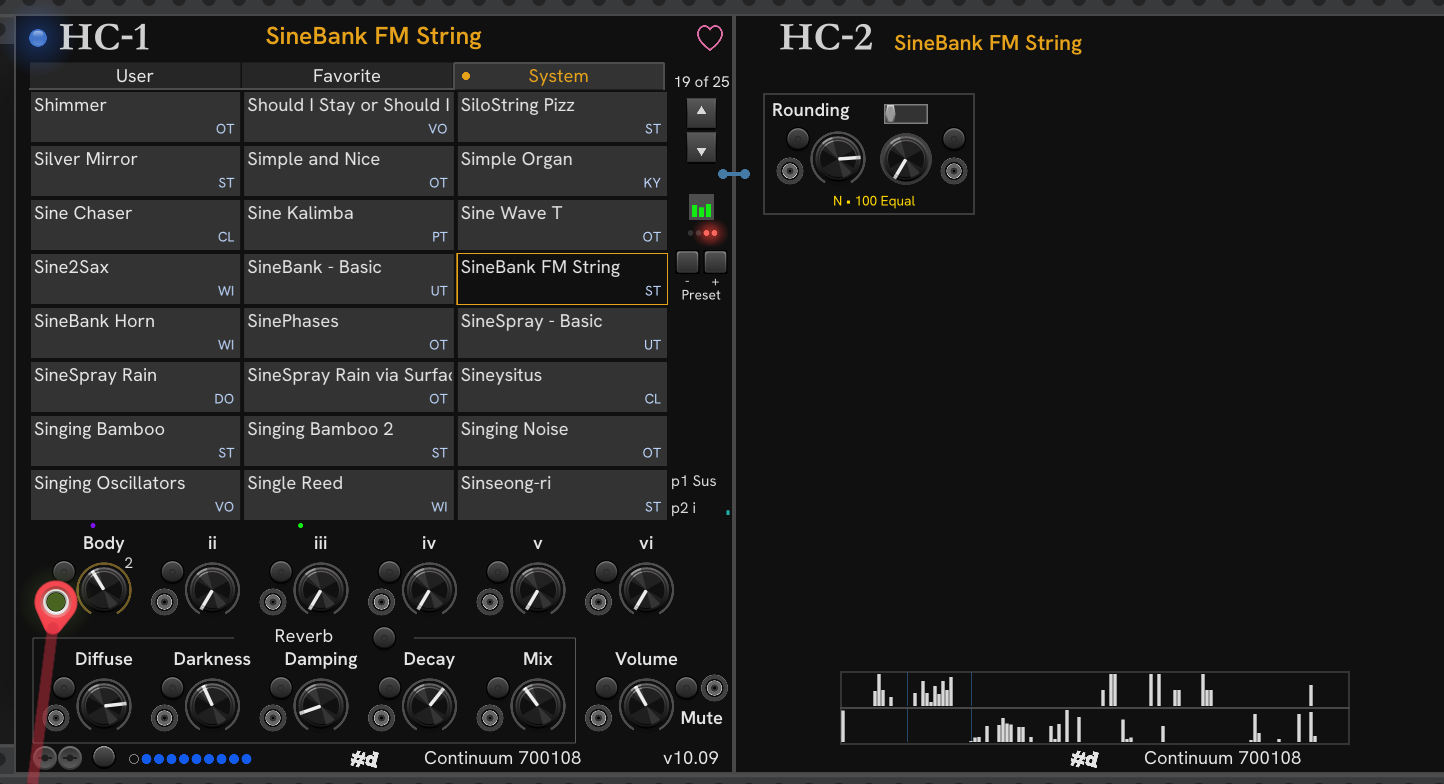
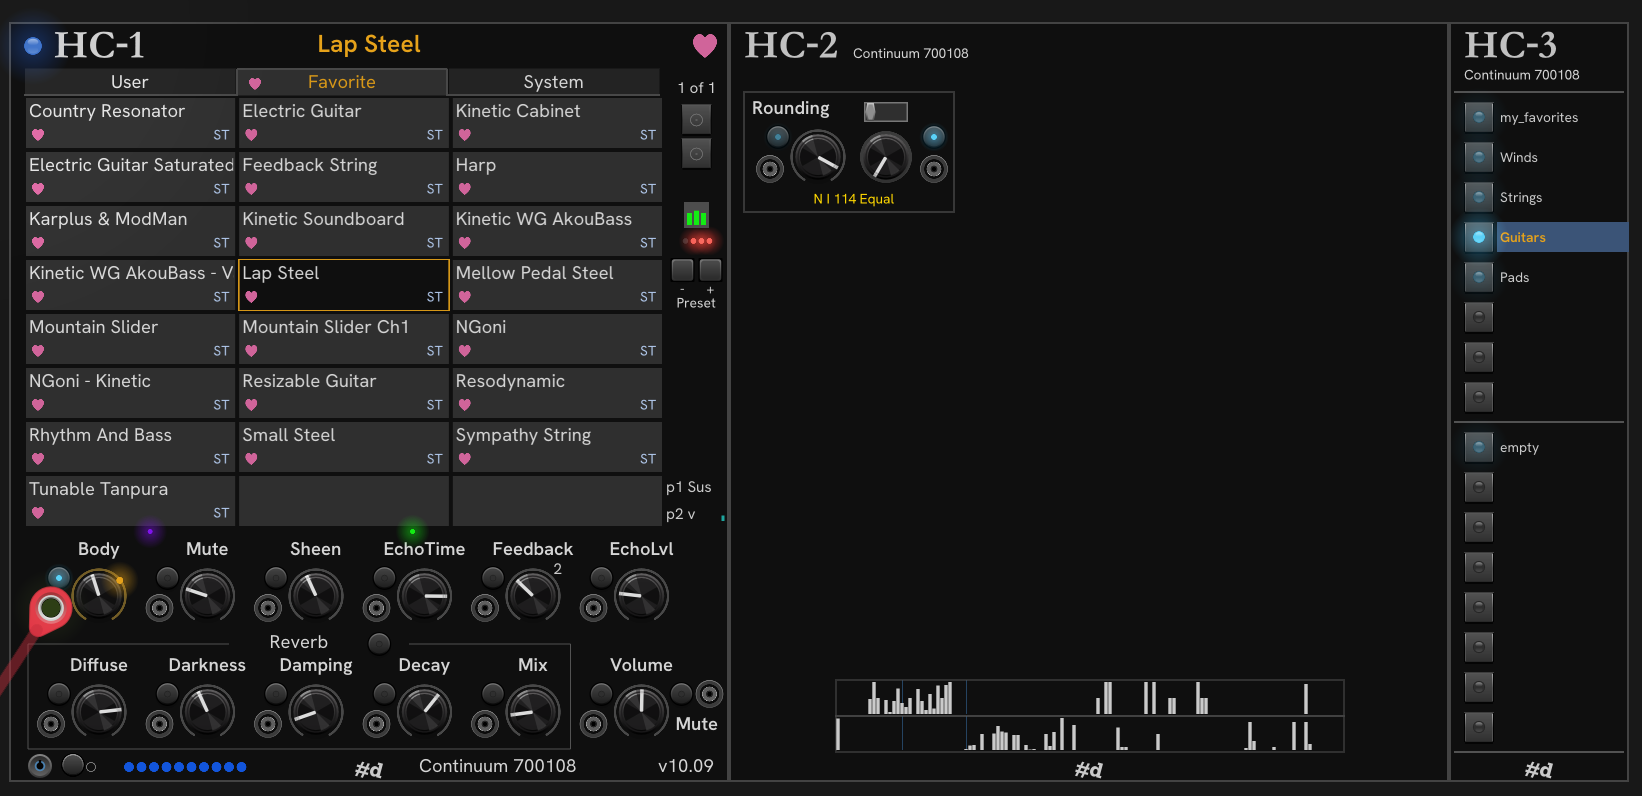
Doc updates

diff --git a/doc/HC-1.md b/doc/HC-1.md
@@ -1,5 +1,8 @@
 # HC-1
 
+HC-1 is the core module for the pachde (#d) HC One plugin.
+All other modules in the plugin are companions for HC-1, and don't do anything without HC-1 in the patch.
+
 HC-1 supports the Haken Continuum and other Haken Audio Eagan Matrix-based devices like the Eagan Matrix Eurorack module (EMM) and the Osmose from Expressive E.
 It is focused on having quick and easy access to presets on the device, favorites, plus CV control of the most essential performance settings, on a compact panel.
 
@@ -13,13 +16,18 @@ HC-1 was designed for Eagan Matrix firmware version 10.09.
 Earlier or later firmware versions may require changes to HC-1.
 If you have an issue, please open one in the Github Issues or send me an email.
 
-Here is the HC-1 module with it's expander HC-2.
+Here is the HC-1 module with it's companions HC-2, and [HC-3](HC-3.md).
 
-![The HC-1 mdoule](HC-1.png)
+![The HC One modules](HC-1.png)
 
-When first loaded, there is a long initialization time to read all user and system presets from the device. By default, the system and user presets are cached, so the next time you open the patch or the module, it should be up and running much faster.
+While they're shown side-by-side as typical for Rack modules with expanders,
+the HC One modules automatically find each other without having to sit next to each other.
 
-You can watch the prograss of the multi-step initialization process with the row of dots on the bottom. When everything is connected and working as expected, all the dots will be blue.
+When first loaded, there is a long initialization time to read all user and system presets from the device.
+By default, the presets are cached, so the next time you open the patch, it should be up and running much faster.
+
+You can watch the prograss of the multi-step initialization process with the row of dots on the bottom.
+When everything is connected and working as expected, all the dots are blue, and you can begin playing.
 
 > **Trouble-shooting:** Eagan Matrix devices require a high-quality MIDI connection.
 The HC-1 initialization process can sometimes fail, especially when you have a poor MIDI connection.
@@ -30,7 +38,7 @@ Be sure to use the MIDI cable that came with your device or another high-quality
 
 ## A tour of the user interface
 
-There's a lot of UI packed into this module, so let's take a tour.
+There's a lot packed into HC-1, so let's take a tour.
 
 From right to left, top to bottom:
 
@@ -209,11 +217,11 @@ You can, of course, save favorites anywhere you like, but this is the default, p
 - **Preset `.mid`:** At this time, this plugin has no support for managing preset .mid files.
 I do have plans to build such functionality, but it may not be in the Rack plugin format.
 
-- **Multiple EM Devices:** The USB plug on my ContinuuMini is broken, so I haven't been able to test the multiple-EM device scenario.
-That's where *you* come in!
-If you own multiple EM-based devices, you should be able to use an instance of HC-1 for each device in the same Rack patch to control multiple devices.
-The automatic discovery will always choose the first EM device it finds, but you can choose another from the MIDI controls in the bottom left:
-Pick the _output_ device from the right-hand MIDI selector and HC-1 will automatically find the corresponding input.
+- **Multiple EM Devices:** My ContinuuMini is back at Haken Audio for repairs, so I haven't been able to test the multiple-EM device scenario.
+
+  If you own multiple EM-based devices, you should be able to use an instance of HC-1 for each device in the same Rack patch to control multiple devices.
+Currently, the automatic discovery will always choose the first one it finds, and you'll get a big red error display if you have more than one HC-1 on the same device.
+You can choose another device from the EM Device button in the bottom left. From there, things should remain sorted out.
 
 - **Factory presets:** For beta, there are no Rack module factory presets.
 Please let me know if you have something useful that comes from using Rack module presets.

diff --git a/doc/index.md b/doc/index.md
@@ -1,18 +1,25 @@
 # pachde HC-One
 
-Plugin for Haken Audio's Eagan Matrix.
-The Eagan Matrix is the synth engien for a variety of hardware devices.
+Performance-oriented plugin for Haken Audio's Eagan Matrix.
+The Eagan Matrix is the synth engine for a variety of hardware devices.
 This includes the Haken Continuum, Continuu Mini, Eagan Matrix Module, and the Osmose from Expressive E.
 
 It is *not* intended to be a replacement for the Haken Editor.
 The intention is to build out a performance companion for the device.
-Use the Haken editor to edit presets.
+
+![HC One modules](HC-1.png)
+
+HC-1 is the main module.
+The rest are companion modules to HC-1, and require an HC-1 in the patch to do anything.
+HC One modules automatically find each other, so you are free to arrange them wherever in the rack you like.
+They do not have to be side-by-side like Rack expander modules.
 
 Modules:
 
 - **[HC-1](HC-1.md)** Fast access to favorite presets, with knobs and CV inputs for the essential controls: Macros and the Recirculator.
 
-- **HC2** For beta, pachde's prototyping and debugging module.
-  Later this will be replaced by an additional module (or more) with additional features for the Eagan Matrix.
+- **HC2** Rounding and CC map (more to come).
+
+- **[HC-3](HC-3.md)** Manage a set of Favorites files.
 
 ![pachde (#d) logo](Logo.svg)

diff --git a/doc/HC-3.md b/doc/HC-3.md
@@ -1,0 +1,21 @@
+# HC-3
+
+HC-3 is a companion for HC-1, offering easy access for up to 16 HC-1 favorites files.
+If you want access to more than 16, just add another instance of HC-3.
+
+![HC-3 module](HC-3.png)
+
+HC-3 initially blank. Right click a button to choose an existing favorites file for that button.
+If you don't have any favorites files yet, you can create one by saving from the HC-1 **Favorite** tab menu.
+
+Once there's a file associated with the button, clicking it will load that file into the **Favorite** tab in the associated HC-1 and the LED on the button lights up.
+Clicking again, and the file is forgotton in HC-1 (but the favorites remain), and the light goes off.
+
+Any favorites file open in the companion HC-1 is automatically updated as you change the favorites in the **Favorite** tab (Add, Remove, Sort, Clear, ...). There is no undo.
+
+To save a set of favorites files, use the options in the module Preset menu (just like loading and saving configuration of any Rack module).
+
+If you use a favorites file from one device on another device, you'll only get the favorites that have the same name on both devices.
+If the favorites file contains user presets that are no longer on the device, they are silently ignored.
+
+![pachde (#d) logo](Logo.svg)

diff --git a/README.md b/README.md
@@ -5,9 +5,10 @@
 HC-One is a plugin with modules for working with Haken Audio's Eagan Matrix devices.
 These include the Haken Continuum, Continuu Mini, and Eagan Matrix Module, and Expressive E's Osmose.
 
-The beta release can be downloaded here: [HC-One 2.0.0-beta](https://github.com/Paul-Dempsey/pachde-hc-one/releases/edit/v2.0.0-beta)
+The beta release can be downloaded here: [HC-One 2.0.0-beta](https://github.com/Paul-Dempsey/pachde-hc-one/releases/edit/v2.0.0-beta).
+If you're adventurous, drill down in Actions and grab a more recent build.
 
-HC-One is not affiliated with or sponsored by Haken Audio.
+Pachde and HC-One are not affiliated with or sponsored by Haken Audio.
 
 - [Documentation](doc/index.md)
 
